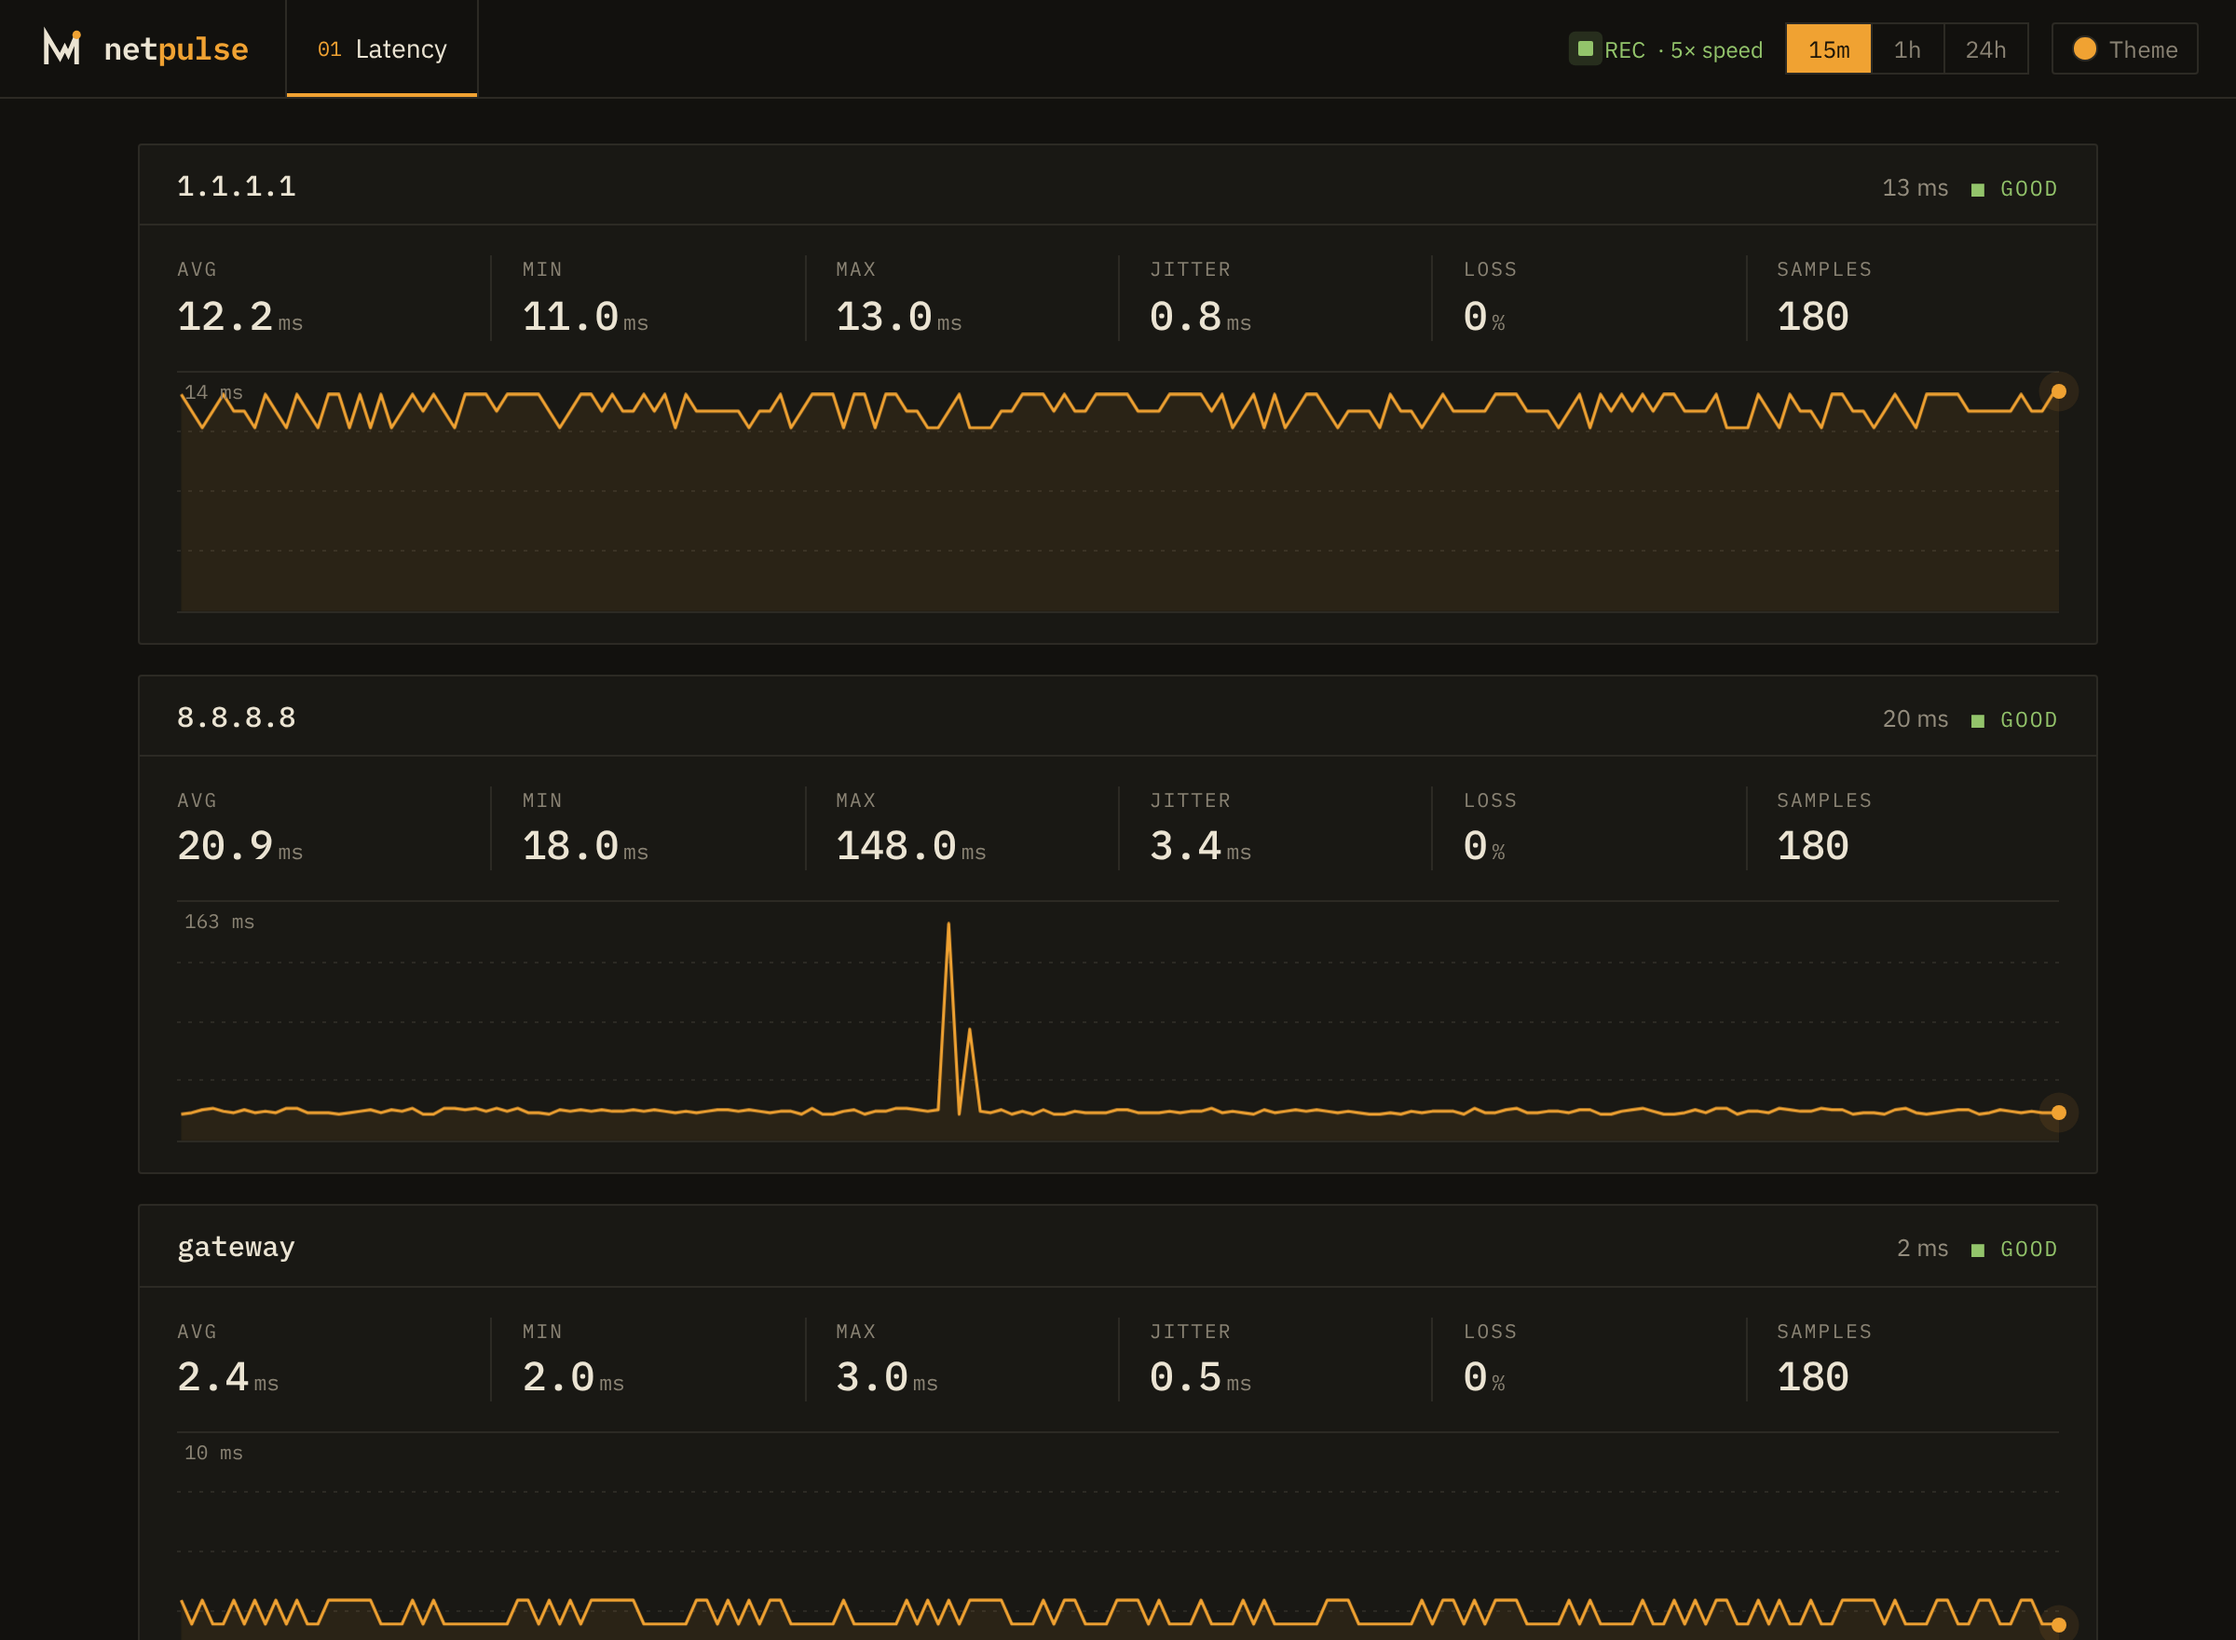
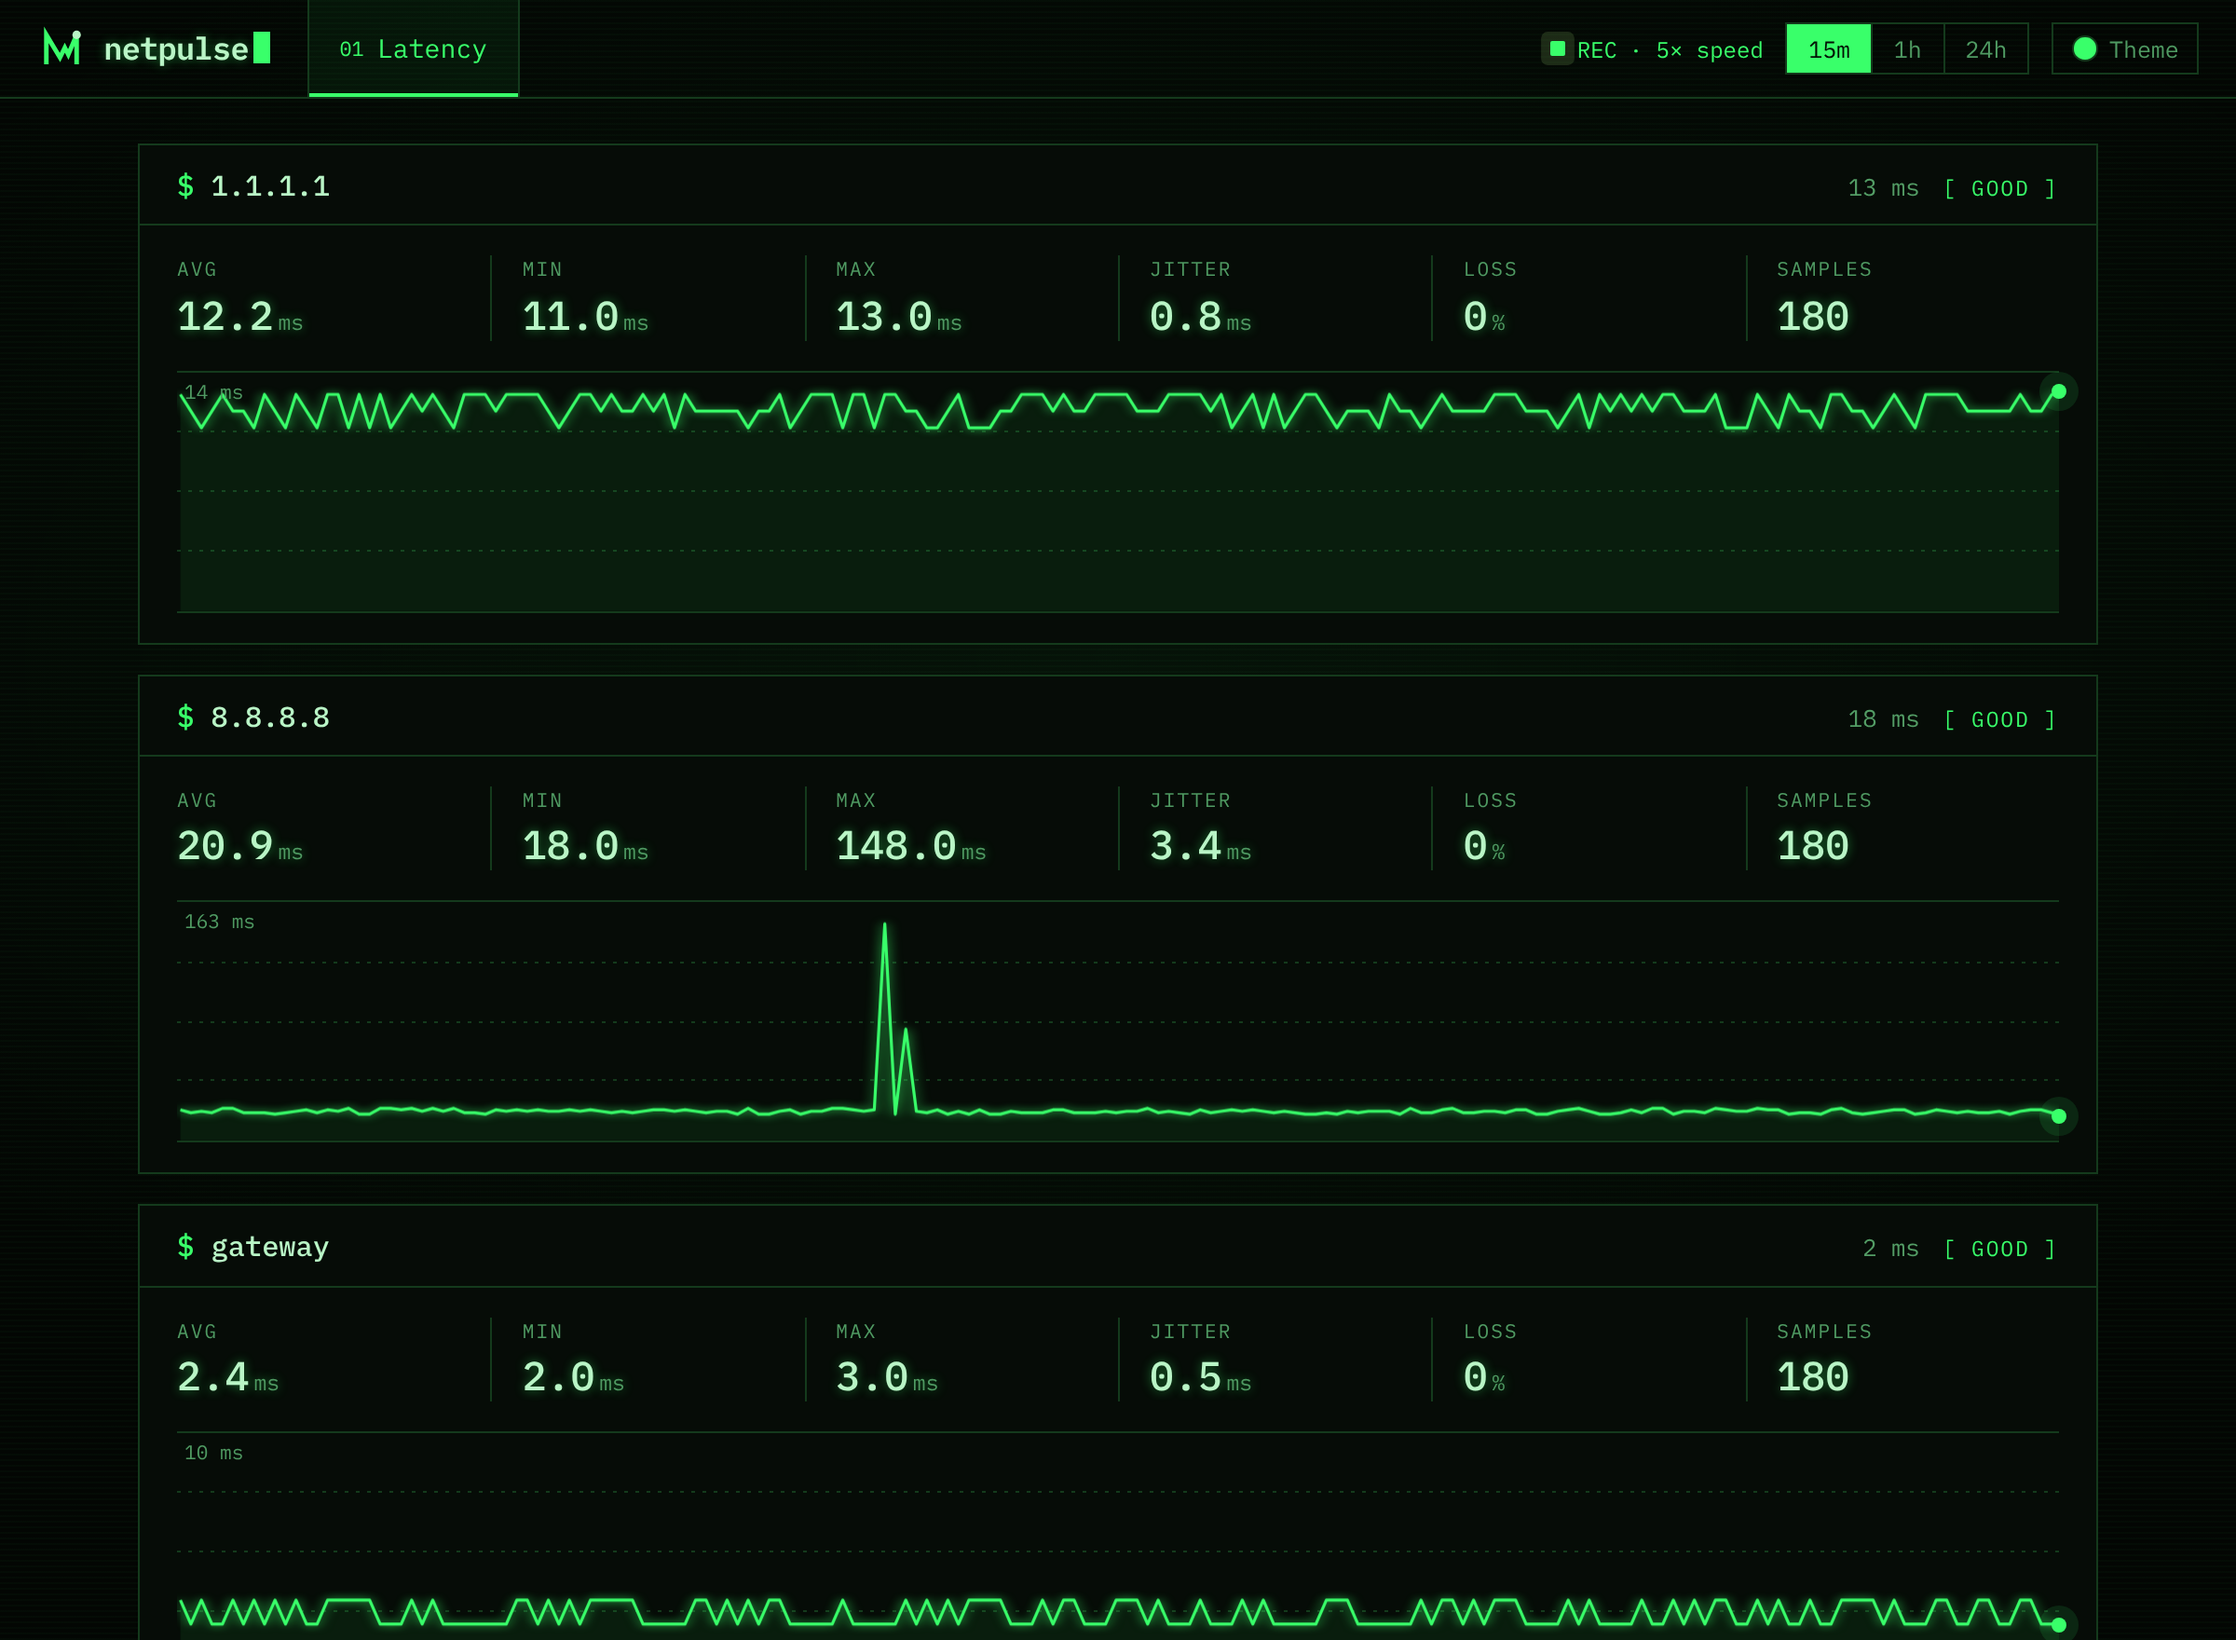
docs: match the project page and demo to the terminal theme

diff --git a/docs/themes.css b/docs/themes.css
@@ -12,7 +12,6 @@
 @font-face { font-family: "Plex Mono"; src: url("fonts/plex-mono-400.woff2") format("woff2"); font-weight: 400; font-display: swap; }
 @font-face { font-family: "Plex Mono"; src: url("fonts/plex-mono-500.woff2") format("woff2"); font-weight: 500; font-display: swap; }
 @font-face { font-family: "Plex Mono"; src: url("fonts/plex-mono-600.woff2") format("woff2"); font-weight: 600; font-display: swap; }
-@font-face { font-family: "Fraunces"; src: url("fonts/fraunces-600.woff2") format("woff2"); font-weight: 400 700; font-display: swap; }
 @font-face { font-family: "Orbitron"; src: url("fonts/orbitron-700.woff2") format("woff2"); font-weight: 400 900; font-display: swap; }
 @font-face { font-family: "Rajdhani"; src: url("fonts/rajdhani-500.woff2") format("woff2"); font-weight: 500; font-display: swap; }
 @font-face { font-family: "Rajdhani"; src: url("fonts/rajdhani-600.woff2") format("woff2"); font-weight: 600 700; font-display: swap; }
@@ -22,37 +21,39 @@
 @font-face { font-family: "Cinzel"; src: url("fonts/cinzel-600.woff2") format("woff2"); font-weight: 400 700; font-display: swap; }
 @font-face { font-family: "IM Fell English"; src: url("fonts/im-fell-400.woff2") format("woff2"); font-display: swap; }
 
-/* --- Dark (default): a warm instrument panel ----------------------------- */
+/* --- Dark (default): a green-on-black terminal --------------------------- */
 
 :root {
-    --bg: #12110e;
-    --bg-image: none;
-    --card: #191814;
+    --bg: #030603;
+    --bg-image:
+        repeating-linear-gradient(0deg, rgba(57, 255, 106, .025) 0 1px, transparent 1px 3px),
+        radial-gradient(ellipse 90% 70% at 50% 40%, rgba(57, 255, 106, .05), transparent 75%);
+    --card: #060c07;
     --card-image: none;
     --card-shadow: none;
-    --border: #2c2a24;
+    --border: #143a1c;
     --rule-width: 1px;
     --rule-style: solid;
-    --text: #ebe4d3;
-    --muted: #8a8374;
-    --faint: #5d584d;
-    --logo: var(--text);
-    --accent: #f0a232;
-    --on-accent: #1a1307;
-    --good: #93c46b;
-    --fair: #e2b23d;
-    --poor: #e4573d;
+    --text: #b9f5c6;
+    --muted: #4f9a62;
+    --faint: #2b5a37;
+    --logo: #39ff6a;
+    --accent: #39ff6a;
+    --on-accent: #021004;
+    --good: #39ff6a;
+    --fair: #ffd23f;
+    --poor: #ff4f4f;
     --trace: var(--accent);
     --trace-width: 1.6;
-    --trace-filter: none;
-    --area-opacity: .08;
-    --radius: 2px;
-    --radius-card: 2px;
-    --font-body: "Plex Sans", system-ui, -apple-system, "Segoe UI", sans-serif;
-    --font-num: "Plex Mono", ui-monospace, SFMono-Regular, Consolas, monospace;
-    --font-head: var(--font-num);
-    --font-brand: var(--font-num);
-    --body-size: 1rem;
+    --trace-filter: drop-shadow(0 0 2px rgba(57, 255, 106, .8));
+    --area-opacity: .07;
+    --radius: 0;
+    --radius-card: 0;
+    --font-body: "Plex Mono", ui-monospace, SFMono-Regular, Consolas, monospace;
+    --font-num: var(--font-body);
+    --font-head: var(--font-body);
+    --font-brand: var(--font-body);
+    --body-size: .95rem;
     --head-size: .95rem;
     --head-weight: 500;
     --head-spacing: 0;
@@ -60,36 +61,87 @@
     color-scheme: dark;
 }
 
-/* --- Light: ink on paper ------------------------------------------------- */
+/* Phosphor glow, a shell prompt on every card and a blinking cursor after the name. */
+[data-theme="dark"] .stats dd,
+[data-theme="dark"] .wordmark { text-shadow: 0 0 6px rgba(57, 255, 106, .45); }
+[data-theme="dark"] .wordmark span { color: var(--text); }
+[data-theme="dark"] .wordmark::after {
+    content: "";
+    display: inline-block;
+    width: .55em;
+    height: 1em;
+    margin-left: .15em;
+    vertical-align: -.12em;
+    background: var(--accent);
+    animation: np-blink 1.1s steps(1) infinite;
+}
+[data-theme="dark"] .card-head h2::before { content: "$ "; color: var(--accent); }
+[data-theme="dark"] .badge::before { content: "[ "; }
+[data-theme="dark"] .badge::after { content: " ]"; }
+[data-theme="dark"] .site-nav a.active { color: var(--accent); background: rgba(57, 255, 106, .06); }
+[data-theme="dark"] .logo-mark .ping { fill: var(--text); }
+
+@keyframes np-blink { 50% { opacity: 0; } }
+
+@media (prefers-reduced-motion: reduce) {
+    [data-theme="dark"] .wordmark::after { animation: none; }
+}
+
+/* --- Light: clean white page under a black terminal bar ------------------ */
 
 [data-theme="light"] {
-    --bg: #f3eee2;
-    --card: #fbf8f0;
-    --border: #d9d1bd;
-    --text: #1f1c16;
-    --muted: #6f6858;
-    --faint: #a39a86;
-    --accent: #2b4fb3;
+    --bg: #f5f6f7;
+    --bg-image: none;
+    --trace-filter: none;
+    --card: #ffffff;
+    --border: #e2e5e9;
+    --text: #111418;
+    --muted: #5f6873;
+    --faint: #a3abb5;
+    --logo: #111418;
+    --accent: #00a650;
     --on-accent: #ffffff;
-    --good: #2f7a45;
-    --fair: #a8701a;
-    --poor: #c0392b;
-    --trace: var(--text);
-    --trace-width: 1.4;
-    --area-opacity: .06;
-    --radius: 3px;
-    --radius-card: 4px;
-    --card-shadow: 0 1px 0 #e3dccb;
-    --font-head: "Fraunces", Georgia, "Times New Roman", serif;
-    --font-brand: var(--font-head);
-    --head-size: 1.15rem;
+    --good: #00a650;
+    --fair: #c98a00;
+    --poor: #d92d20;
+    --trace: #111418;
+    --trace-width: 1.5;
+    --area-opacity: .1;
+    --radius: 6px;
+    --radius-card: 10px;
+    --card-shadow: 0 1px 2px rgba(17, 20, 24, .05), 0 4px 16px rgba(17, 20, 24, .04);
+    --font-body: "Plex Sans", system-ui, -apple-system, "Segoe UI", sans-serif;
+    --font-num: "Plex Mono", ui-monospace, SFMono-Regular, Consolas, monospace;
+    --font-head: var(--font-body);
+    --font-brand: var(--font-num);
+    --body-size: 1rem;
+    --head-size: 1rem;
     --head-weight: 600;
     color-scheme: light;
 }
 
-[data-theme="light"] .wordmark { font-size: 1.3rem; letter-spacing: -.01em; }
-[data-theme="light"] .logo-mark .ping { fill: #c8402a; }
-[data-theme="light"] .site-nav a.active { box-shadow: inset 0 -2px 0 var(--text); }
+/* The top bar stays a black terminal strip, so the brand reads the same in both modes. */
+[data-theme="light"] .top {
+    --text: #e8ffe9;
+    --muted: #7fa58a;
+    --faint: #3f6049;
+    --border: #1d2620;
+    --logo: #39ff6a;
+    --accent: #39ff6a;
+    --on-accent: #021004;
+    background: #0b0f0c;
+    color: var(--text);
+    border-bottom: 0;
+    color-scheme: dark;
+}
+[data-theme="light"] .card-head h2 { font-family: var(--font-body); }
+[data-theme="light"] .chart { border-color: var(--border); }
+[data-theme="light"] .badge {
+    padding: .15rem .55rem;
+    border-radius: 999px;
+    background: color-mix(in srgb, currentColor 12%, transparent);
+}
+[data-theme="light"] .badge::before { content: "● "; }
 
 /* --- Cyberpunk: neon on a night city ------------------------------------- */
 
@@ -147,6 +199,7 @@
 /* --- Anime: pastel sky, stickers and soft corners ------------------------ */
 
 [data-theme="anime"] {
+    --trace-filter: none;
     --bg: #fff3f8;
     --bg-image:
         radial-gradient(circle at 12% 8%, rgba(255, 182, 213, .55) 0 120px, transparent 260px),
@@ -215,6 +268,7 @@
 /* --- Medieval: an illuminated ledger on parchment ------------------------ */
 
 [data-theme="medieval"] {
+    --trace-filter: none;
     --bg: #e6d6b4;
     --bg-image:
         radial-gradient(ellipse at 50% 40%, transparent 55%, rgba(92, 60, 20, .28) 100%),
@@ -272,8 +326,8 @@
 /* --- Theme picker swatches: each option previews its own colours --------- */
 
 [data-theme-option] .swatch { background: var(--accent); }
-[data-theme-option="dark"] .swatch { background: linear-gradient(135deg, #12110e 50%, #f0a232 50%); }
-[data-theme-option="light"] .swatch { background: linear-gradient(135deg, #f3eee2 50%, #2b4fb3 50%); }
+[data-theme-option="dark"] .swatch { background: linear-gradient(135deg, #030603 50%, #39ff6a 50%); }
+[data-theme-option="light"] .swatch { background: linear-gradient(135deg, #ffffff 50%, #111418 50%); }
 [data-theme-option="cyberpunk"] .swatch { background: linear-gradient(135deg, #ff2bd6 50%, #00f0ff 50%); }
 [data-theme-option="anime"] .swatch { background: linear-gradient(135deg, #ffb6d5 50%, #7a5cff 50%); }
 [data-theme-option="medieval"] .swatch { background: linear-gradient(135deg, #e6d6b4 50%, #8b1a1a 50%); }

diff --git a/docs/site.css b/docs/site.css
@@ -4,13 +4,13 @@
 @font-face { font-family: "Plex Mono"; src: url("fonts/plex-mono-600.woff2") format("woff2"); font-weight: 600; font-display: swap; }
 
 :root {
-    --bg: #12110e;
-    --card: #191814;
-    --border: #2c2a24;
-    --text: #ebe4d3;
-    --muted: #8a8374;
-    --accent: #f0a232;
-    --good: #93c46b;
+    --bg: #030603;
+    --card: #060c07;
+    --border: #143a1c;
+    --text: #d4f8dc;
+    --muted: #6fae80;
+    --accent: #39ff6a;
+    --good: #39ff6a;
     --sans: "Plex Sans", system-ui, -apple-system, "Segoe UI", sans-serif;
     --mono: "Plex Mono", ui-monospace, Consolas, monospace;
     color-scheme: dark;
@@ -37,7 +37,7 @@ code { background: var(--card); border: 1px solid var(--border); border-radius: 
     position: sticky; top: 0; z-index: 1;
     display: flex; align-items: center; justify-content: space-between; gap: 1rem;
     padding: .8rem 1.5rem;
-    background: rgba(18, 17, 14, .92);
+    background: rgba(3, 6, 3, .92);
     backdrop-filter: blur(8px);
     border-bottom: 1px solid var(--border);
 }
@@ -68,14 +68,14 @@ h3 { font-size: 1.05rem; margin: 0 0 .4rem; }
     border: 1px solid var(--border); color: var(--text); text-decoration: none; font-weight: 600;
 }
 .btn:hover { border-color: var(--accent); }
-.btn.primary { background: var(--accent); border-color: var(--accent); color: #1a1307; }
+.btn.primary { background: var(--accent); border-color: var(--accent); color: #021004; }
 .btn.primary:hover { filter: brightness(1.1); }
 
 .shot { display: block; }
 .shot img {
     display: block; width: 100%; height: auto;
     border: 1px solid var(--border); border-radius: 2px;
-    box-shadow: 0 20px 60px rgba(0, 0, 0, .45), 0 0 0 1px rgba(240, 162, 50, .08);
+    box-shadow: 0 20px 60px rgba(0, 0, 0, .45), 0 0 0 1px rgba(57, 255, 106, .1);
     transition: transform .2s;
 }
 .shot:hover img { transform: translateY(-3px); }

diff --git a/docs/demo.html b/docs/demo.html
@@ -11,7 +11,8 @@
   <script>
     // The real app keeps the theme in a cookie; the static demo takes it from ?theme=.
     const theme = new URLSearchParams(location.search).get("theme");
-    if (["light", "cyberpunk", "anime", "medieval"].includes(theme)) document.documentElement.dataset.theme = theme;
+    document.documentElement.dataset.theme =
+      ["light", "cyberpunk", "anime", "medieval"].includes(theme) ? theme : "dark";
   </script>
   <style>
     .demo-bar {
@@ -38,8 +39,8 @@
     }
     .live-dot.lost { background: var(--poor); }
     @keyframes pulse {
-      0% { box-shadow: 0 0 0 0 rgba(240, 162, 50, .6); }
-      100% { box-shadow: 0 0 0 8px rgba(240, 162, 50, 0); }
+      0% { box-shadow: 0 0 0 0 rgba(57, 255, 106, .6); }
+      100% { box-shadow: 0 0 0 8px rgba(57, 255, 106, 0); }
     }
     .live::before { animation-name: pulse-good; }
     @keyframes pulse-good {

diff --git a/docs/fonts/README.md b/docs/fonts/README.md
@@ -5,9 +5,8 @@ subset in WOFF2, and every family is licensed under the SIL Open Font License 1.
 
 | File | Family | Used by | Copyright |
 | --- | --- | --- | --- |
-| `plex-sans-var.woff2` | IBM Plex Sans | Dark, Light | © IBM Corp. |
-| `plex-mono-*.woff2` | IBM Plex Mono | Dark, Light | © IBM Corp. |
-| `fraunces-600.woff2` | Fraunces | Light | © The Fraunces Project Authors |
+| `plex-sans-var.woff2` | IBM Plex Sans | Light | © IBM Corp. |
+| `plex-mono-*.woff2` | IBM Plex Mono | all except Cyberpunk | © IBM Corp. |
 | `orbitron-700.woff2` | Orbitron | Cyberpunk | © The Orbitron Project Authors |
 | `rajdhani-*.woff2` | Rajdhani | Cyberpunk | © Indian Type Foundry |
 | `share-tech-mono-400.woff2` | Share Tech Mono | Cyberpunk | © Carrois Apostrophe |
